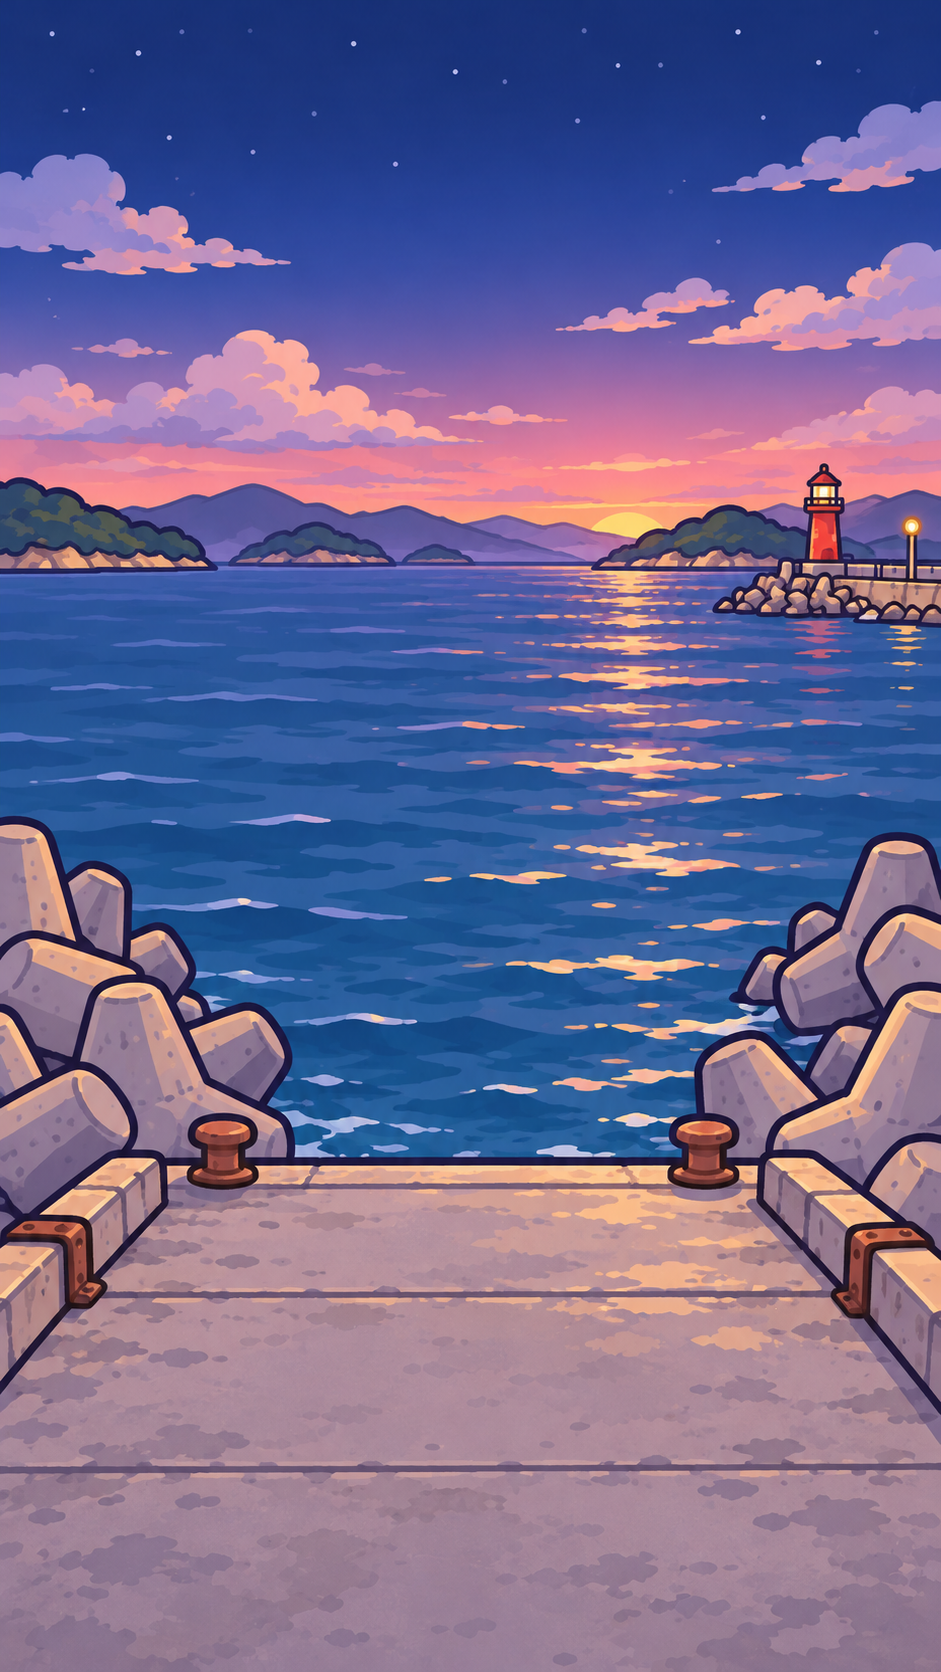
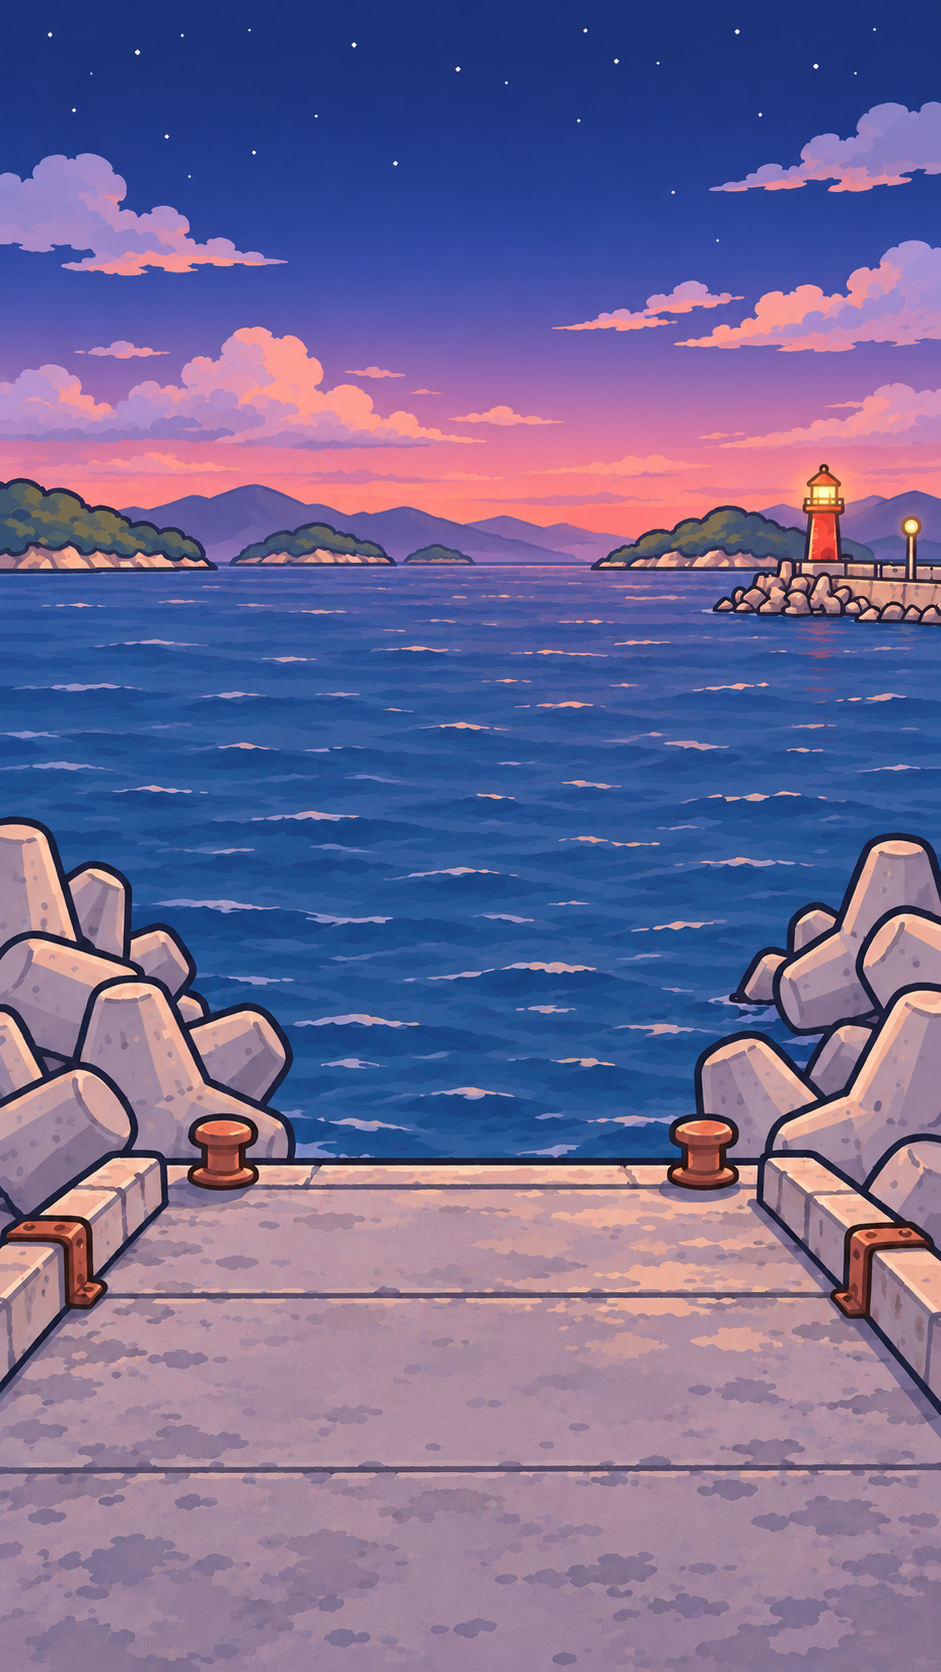
낚시 배경: 해를 따로 받아 시각에 따라 떠오르게(동쪽 바다 기준), 바다 물결 셰이더
- 새벽, 아침 배경을 해 없는 판으로 바꾸고 sun.png를 SeaBackdrop.sun_path로 움직인다
- 북쪽 방파제 끝에서 동쪽 바다를 보는 방향으로 정함 (해돋이 정면, 해넘이 등 뒤)
- sea_water.gdshader: 받은 그림의 바다색 부분만 일렁이고 물결 반짝임이 깜빡인다

diff --git a/CLAUDE.md b/CLAUDE.md
@@ -41,6 +41,7 @@ godot --headless --path . --export-release "Web" build/web/index.html  # 웹 빌
 - **이미지 → 프롬프트 순서로** 준다. 첨부할 이미지는 이름만 적지 말고 **실제 이미지 파일을 먼저 보내고**(SendUserFile), 바로 아래에 그 이미지와 쓸 프롬프트를 준다. 여러 장이면 `이미지 1 / 프롬프트 1 / 이미지 2 / 프롬프트 2 ...` 형식
 - 앞 그림 결과물이 뒤 그림의 참조가 되는 것(같은 구도의 아침, 밤 버전 등)은 결과를 받은 뒤 그 그림을 참조로 보내며 다음 단계를 준다
 - 세로 화면이므로 배경은 `세로로 긴 9:16 비율` / `vertical 9:16 aspect ratio`로 받는다
+- 방향: 북쪽 방파제 끝에서 **동쪽 바다**를 본다 (왼쪽 북, 오른쪽 남, 등 뒤 서). 해돋이는 정면, 해넘이는 등 뒤. 배경과 지도는 이 방향에 맞춘다. 해는 배경과 따로(`sun.png`) 받아 코드로 움직인다
 - 참조 이미지는 `docs/ref/`에 보관한다. 용량이 커서 git에는 넣지 않고 구글 드라이브 `오늘의바다_백업/ref` 폴더에 따로 올린다 (드라이브 업로드 한도 10MB). 새 세션에서는 그 폴더에서 받아 `docs/ref/`에 넣는다
 - 투명 배경이 필요한 그림(캐릭터, 물고기, 소품, 초상화, SD)은 프롬프트에 알파 채널 문구를 넣는다
   - 한국어: `배경은 완전히 투명한 PNG(알파 채널). 배경 없이 대상만.`

diff --git a/docs/그림_요청_목록.md b/docs/그림_요청_목록.md
@@ -34,6 +34,11 @@
 | 2 | `bg_title.png` | 타이틀 키 비주얼. 노을 방파제, 위쪽 하늘에 제목 자리 | 타이틀 | 방파제 밤 임시 |
 | ✅ 3 | `bg_fishing_dawn_v.png` | 방파제 끝에서 바다를 보는 새벽, 아래쪽에 SD 주인공이 설 자리 | 낚시 | 바다 한 접시 방파제 밤 |
 | ✅ 3-1 | `bg_fishing_morning_v.png` | 3번과 같은 구도의 아침 (3번 결과를 참조로) | 낚시 | 바다 한 접시 방파제 낮 |
+| ✅ 3-2 | `sun.png` | 투명 해 한 장. 새벽, 아침 배경은 해를 지운 판으로 바꿨고 해는 시각에 따라 움직인다 (`SeaBackdrop.sun_path`) | 낚시 | |
+| 3-3 | `bg_fishing_evening_v.png`, `bg_fishing_night_v.png` | 같은 구도의 저녁(해는 등 뒤라 하늘만 노을빛), 밤. 해 없이 | 낚시 | 새벽 그림 |
+
+**방향 (2026-11-09 결정):** 북쪽 방파제 끝에서 **동쪽 바다**를 본다. 화면 왼쪽이 북, 오른쪽이 남, 등 뒤가 서쪽. 해돋이는 정면, 해넘이는 등 뒤.
+마을 지도도 이 방향에 맞춘다: 바다와 항구 입구가 동쪽, 북쪽 방파제는 마을 북동쪽 끝.
 | 4 | `bg_office_night.png` | 밤 사무실, 모니터 불빛 | 사직서 | 어두운 바탕 |
 | 5 | `bg_shop_front.png` | 낡은 식당 외관, 간판 자리 비어 있음 | 간판 | 마을 지도 어둡게 |
 | 5-1 | `ui_signboard.png` | 글자 없는 빈 나무 간판, 투명 배경 | 간판 | 나무색 판 |
